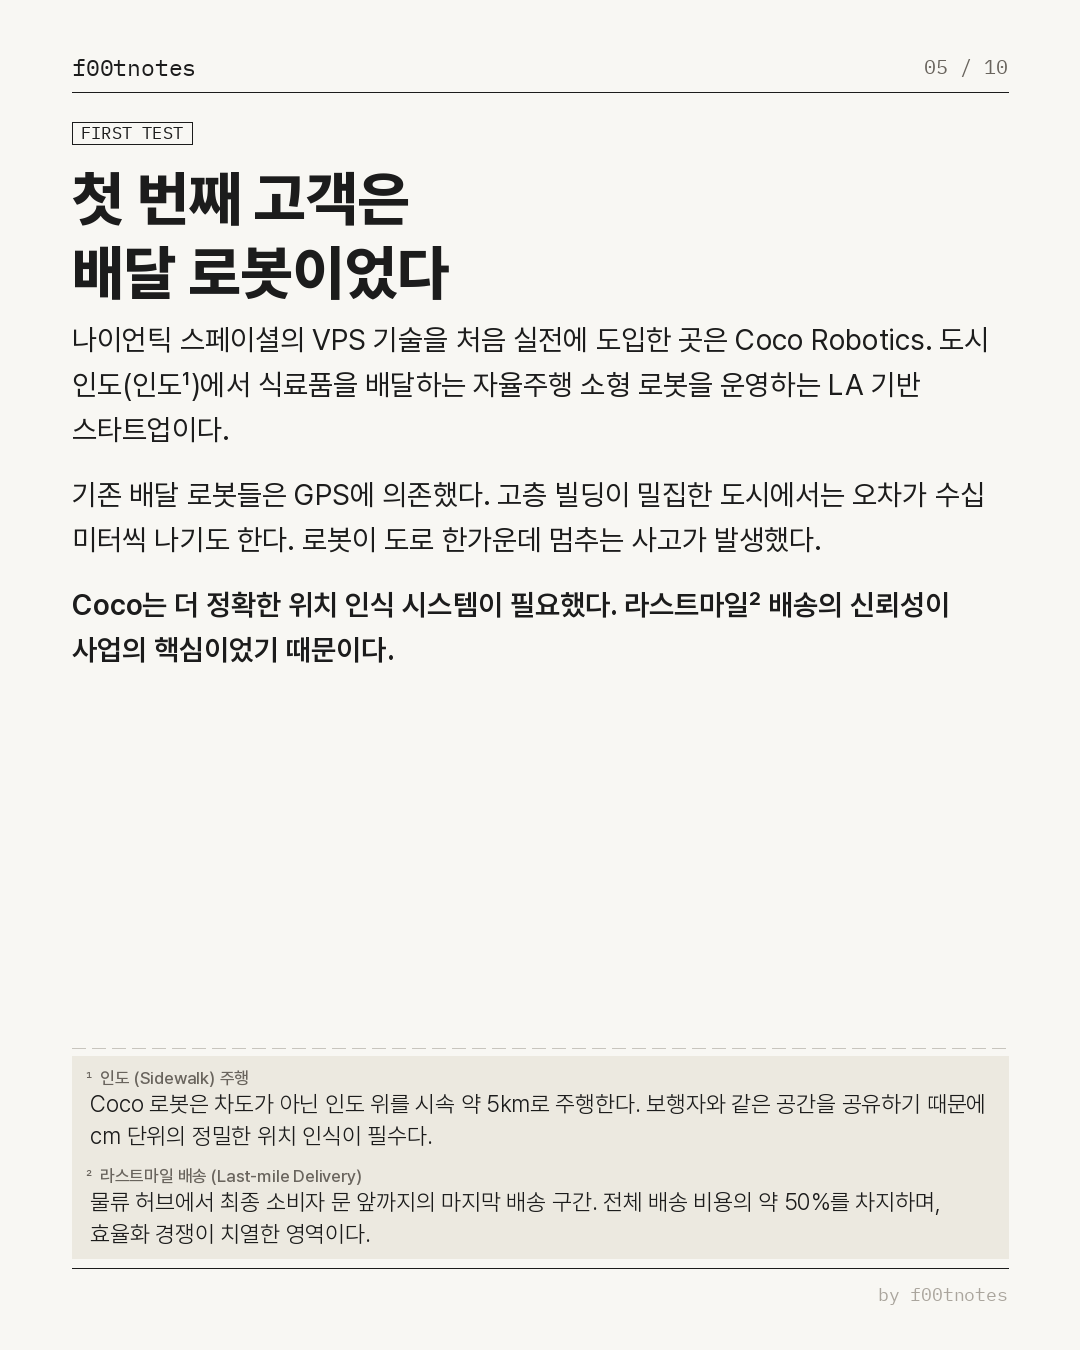
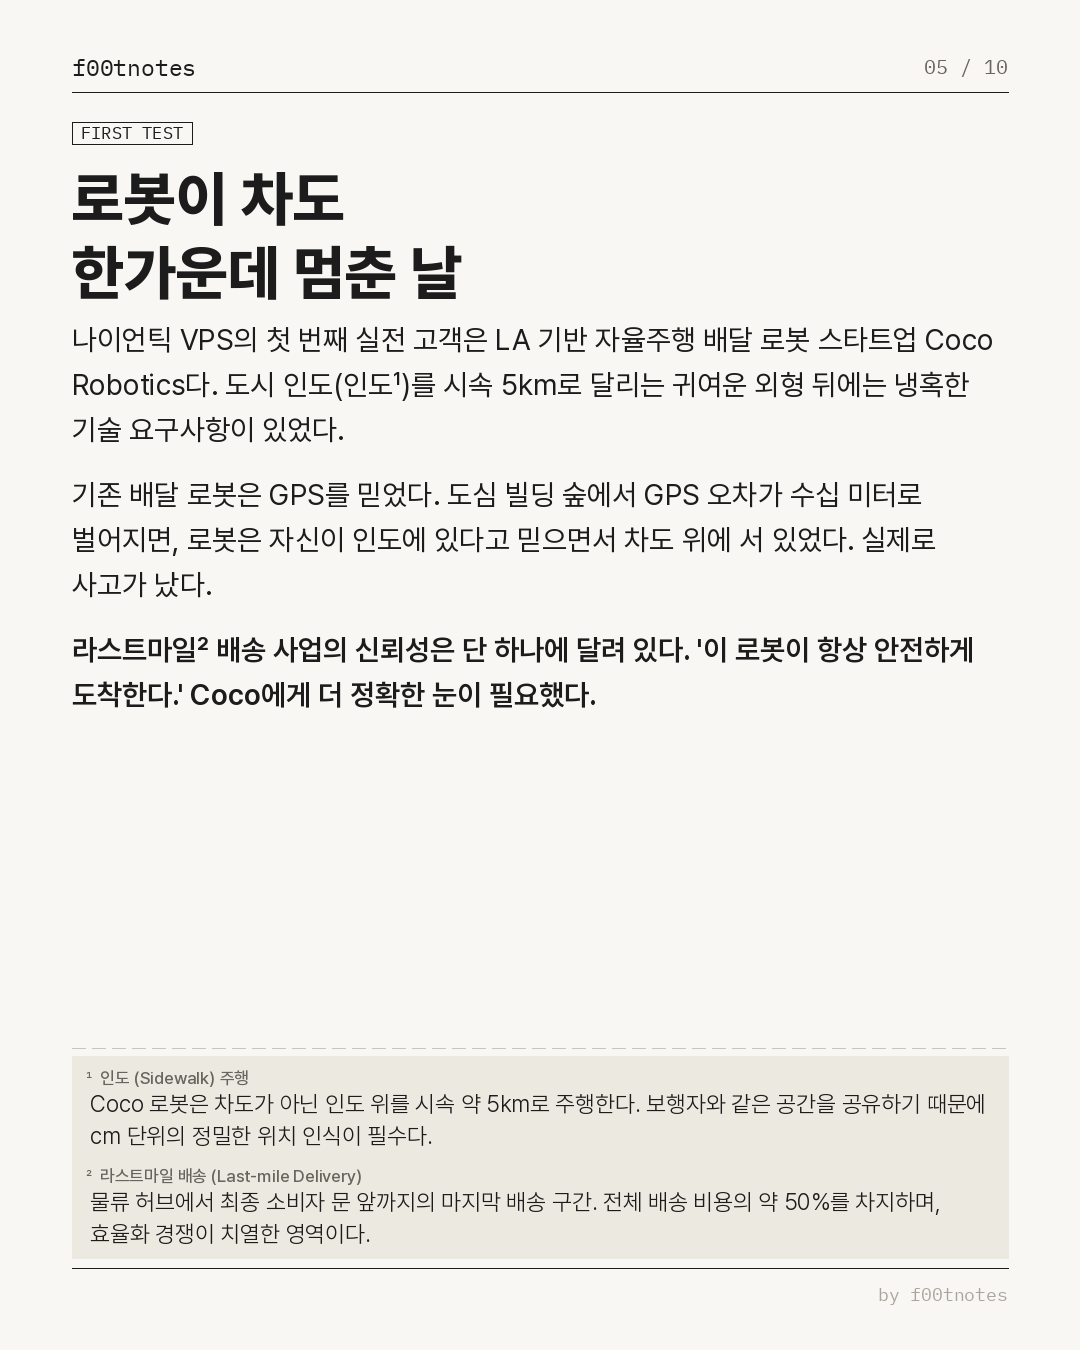
cardnews No.001: 카피 전면 개선 (가이드북 P.D.A. + 마케팅 앵글 적용)
- 헤드라인 6장 교체 (02·03·05·06·08·10)
- body copy 전장 narrative 강화, 나열식 → 스토리텔링
- card_08 footnote 업데이트 (VPS, Lightship 설명으로 교체)

Changed region(s): [[0.0611, 0.1244, 0.9167, 0.5289], [0.8861, 0.3422, 0.9167, 0.3733]]

diff --git a/cardnews/generate.py b/cardnews/generate.py
@@ -460,14 +460,16 @@ def card_08():
     y = header(d, 8)
     y = label_tag(d, "PARTNERSHIP", MARGIN, y)
 
-    d.text((MARGIN, y), "어떻게 협력했나", font=F('ko_eb', 64), fill=INK)
-    y += 82
+    d.text((MARGIN, y), "포켓몬고 데이터가", font=F('ko_eb', 64), fill=INK)
+    y += 78
+    d.text((MARGIN, y), "LA 인도를 달린다", font=F('ko_eb', 64), fill=INK)
+    y += 86
 
     points = [
-        ("→", "Coco 로봇 본체에 카메라 4대 탑재, 360° 주변 인식"),
-        ("→", "나이언틱 VPS로 로봇 실시간 위치 계산 (GPS 병행 아닌 대체)"),
-        ("→", "포켓몬고로 수집한 도시 공간 데이터를 로봇 경로 지도에 적용"),
-        ("→", "GPS 불안정 구간에서도 ±수 cm 수준의 측위 목표"),
+        ("→", "Coco 로봇 4대 카메라가 주행 중 360° 주변을 실시간으로 촬영한다"),
+        ("→", "나이언틱 VPS¹가 그 영상과 3D 지도를 비교해 로봇 위치를 cm 단위로 계산한다"),
+        ("→", "이 3D 지도의 기반 — 포켓몬고 플레이어들이 수년간 LA 거리를 스캔한 Lightship² 데이터다"),
+        ("→", "GPS 신호가 흔들리는 빌딩 숲에서도 로봇은 인도 폭 안에서 벗어나지 않는다"),
     ]
 
     f_arr = F('mono', 26)
@@ -480,14 +482,14 @@ def card_08():
         y += 14
 
     y += 10
-    b_end = "단순 위치 확인을 넘어, 로봇이 '이곳이 인도인지 차도인지'를 공간 맥락¹으로 판단하고, 주변 보행자²를 인식하는 방향으로 기술을 확장 중이다."
+    b_end = "LA 어딘가에서 포켓스탑을 스캔한 누군가는 알지 못했을 것이다. 자신이 배달 로봇의 눈을 만들고 있었다는 사실을. 그것이 플랫폼이 데이터를 인프라로 바꾸는 방식이다."
     multiline(d, b_end, F('ko_sb', 28), MARGIN, y, W - MARGIN*2, lhf=1.55)
 
     footnote_zone(d, [
-        ("¹", "공간 맥락 인식 (Spatial Context)",
-         "단순 좌표('내가 어디 있는가')를 넘어 '이 장소가 어떤 공간인가'를 이해하는 것. 인도·차도·횡단보도 구분, 건물 입구 위치 파악, 사람이 모이는 패턴 분석 등이 포함된다."),
-        ("²", "보행자 인식과 규제",
-         "인도 위를 주행하는 배달 로봇은 보행자와 같은 공간을 공유한다. 미국 일부 주에서는 인도 로봇 속도·크기를 규제하며, Coco는 시속 5km 이하로 운행한다."),
+        ("¹", "VPS (Visual Positioning System)",
+         "카메라 이미지와 사전 구축된 3D 공간 지도를 비교해 위치를 계산하는 기술. GPS와 달리 위성 신호 없이 작동하며, 실내·지하에서도 cm 단위 정확도를 달성한다."),
+        ("²", "Niantic Lightship",
+         "나이언틱의 AR 개발 플랫폼. 포켓몬고 이용자들이 포켓스탑을 스캔할 때 수집된 3D 공간 데이터가 Lightship의 VPS 지도 데이터베이스를 구성한다."),
     ], H - 300)
 
     footer(d)
@@ -542,11 +544,11 @@ def card_09():
 
     y = by + box_h + 34
 
-    b1 = "AR 게임에서 출발한 데이터가 로보틱스·물류 인프라로 전환되는 사례. '게임 → 데이터 → AI 모델 → 산업 적용'의 밸류체인¹을 실증했다."
+    b1 = "나이언틱은 게임 회사로 시작해 AI 인프라 회사가 됐다. 전환점은 제품이 아니라 데이터였다. 게임 플레이 하나하나가 현실 세계를 이해하는 AI의 학습 재료가 됐고, 그 AI가 지금 산업 현장에서 작동하고 있다. 이것이 밸류체인¹이다."
     y = multiline(d, b1, F('ko', 29), MARGIN, y, W - MARGIN*2, lhf=1.56)
     y += 20
 
-    b2 = "데이터 해자²란 이렇게 만들어진다. 경쟁사가 10년 뒤 같은 데이터를 모으려 해도 불가능하다."
+    b2 = "데이터 해자²는 이렇게 만들어진다. 경쟁사가 따라오기 시작한 시점에 이미 격차는 10년이다. 그리고 그 격차는 오늘도 넓어지고 있다. 이 흐름을 먼저 읽는 사람이 다음 번 나이언틱을 먼저 본다."
     multiline(d, b2, F('ko_sb', 29), MARGIN, y, W - MARGIN*2, lhf=1.56)
 
     footnote_zone(d, [
@@ -567,15 +569,17 @@ def card_10():
     y = header(d, 10)
     y = label_tag(d, "TAKEAWAY", MARGIN, y)
 
-    d.text((MARGIN, y), "f00tnotes 정리", font=F('ko_eb', 60), fill=INK)
-    y += 80
+    d.text((MARGIN, y), "이 패턴, 다음엔", font=F('ko_eb', 60), fill=INK)
+    y += 74
+    d.text((MARGIN, y), "어디서 보일까", font=F('ko_eb', 60), fill=INK)
+    y += 86
 
     points = [
-        "포켓몬고는 게임이면서 동시에 세계 최대 규모의 현실 공간 데이터 수집 프로젝트였다",
-        "300억 장 이미지로 학습한 VPS는 GPS가 실패하는 도심에서도 cm 단위 측위가 가능하다",
-        "첫 고객 Coco Robotics 협업으로 '게임 데이터 → 로보틱스 인프라' 경로를 입증했다",
-        "데이터 해자는 경쟁사가 따라오기 시작한 시점에 이미 수년의 격차가 벌어져 있다",
-        "플랫폼 비즈니스의 진짜 자산은 때로 예상 밖의 방식으로 쌓인다",
+        "포켓몬고는 게임이 아니었다 — 수억 명을 고용하지 않고 현실 세계를 스캔하는 분산 수집 엔진이었다",
+        "300억 장의 이미지는 GPS를 대체하는 위치 기술을 만들었다. 데이터가 기술을 기다렸다",
+        "Coco Robotics 협업은 '게임 → 데이터 → AI → 로보틱스'의 밸류체인이 실제로 작동함을 증명했다",
+        "데이터 해자의 깊이는 경쟁사가 따라오기 시작한 시점에 이미 결정된다",
+        "플랫폼이 만드는 데이터의 향방을 먼저 읽는 것 — 그것이 f00tnotes가 추적하는 것이다",
     ]
 
     f_pt  = F('ko', 27)
@@ -593,7 +597,7 @@ def card_10():
     y += 22
     d.text((MARGIN, y), "다음 호에서 계속", font=F('ko_l', 24), fill=INK_MED)
     y += 36
-    d.text((MARGIN, y), "공간 AI가 바꾸는 물류 지도", font=F('ko_sb', 28), fill=INK)
+    d.text((MARGIN, y), "공간 AI의 다음 전장", font=F('ko_sb', 28), fill=INK)
 
     # Brand block
     brand_y = H - 200
